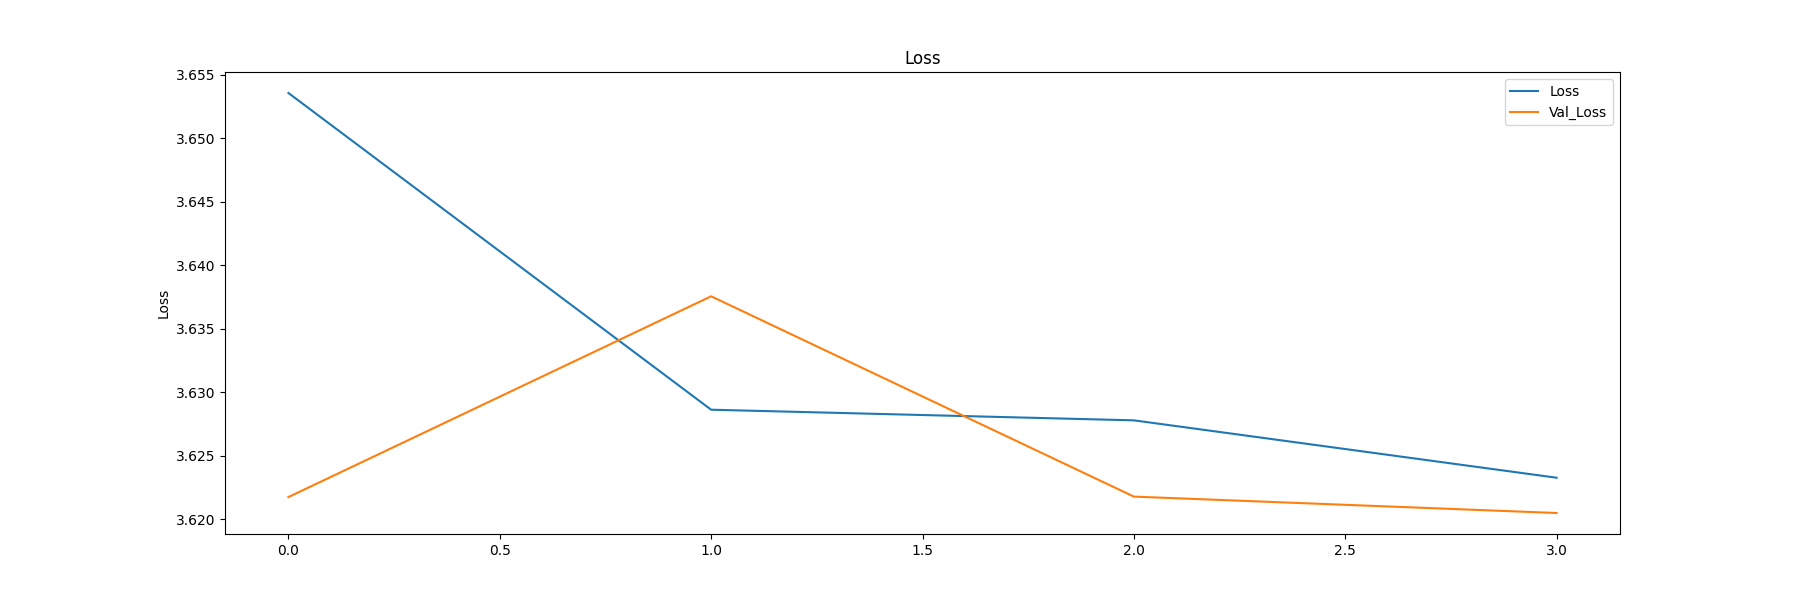
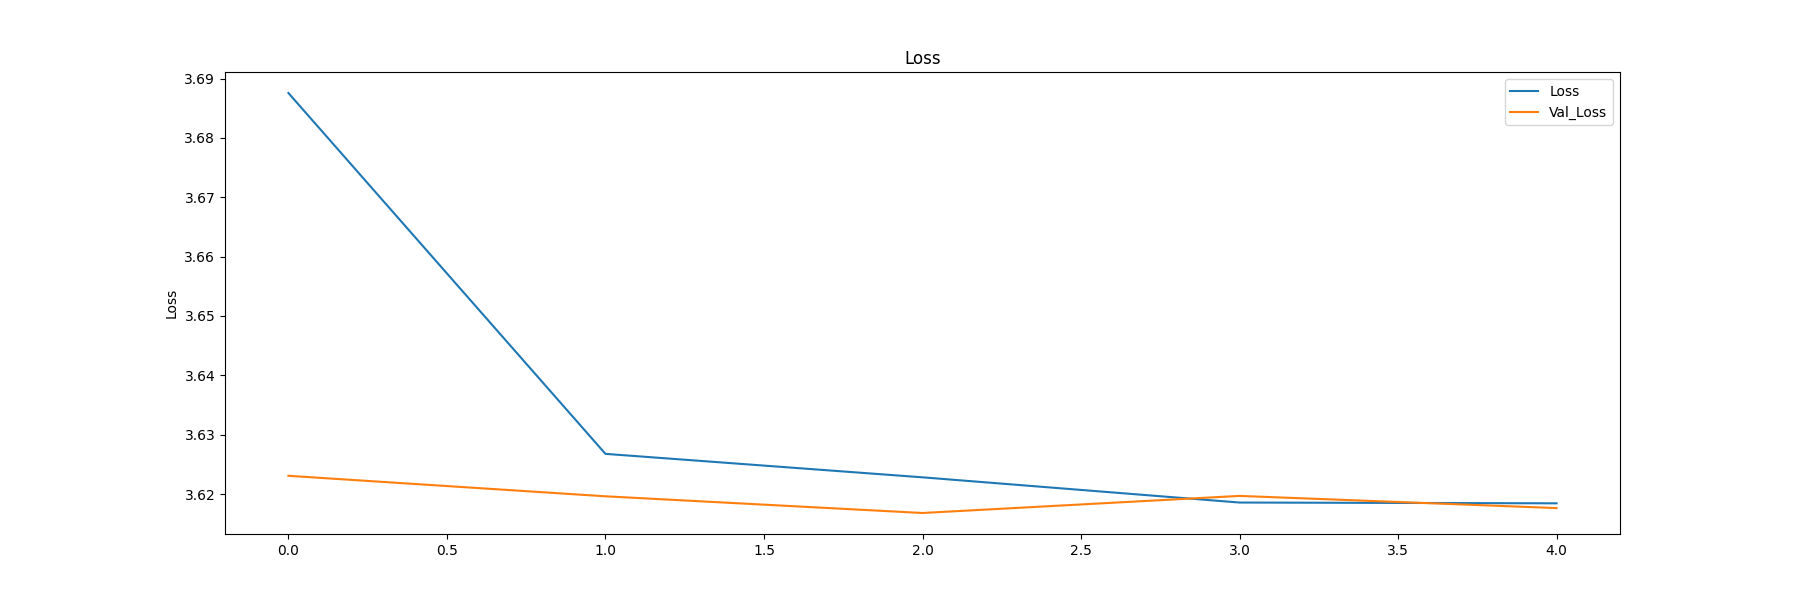
[AUTO] training model v0.0-testing, epoch 5.

diff --git a/model/batch_stabilization.py b/model/batch_stabilization.py
@@ -1,7 +1,7 @@
 import numpy as np
 
 
-def stabilize_batch_size(converging, batch_size, min_batch_size = 1, max_batch_size = 32):
+def stabilize_batch_size(converging, batch_size, min_batch_size = 32, max_batch_size = 512):
 
     can_increase = batch_size < max_batch_size
     can_decrease = batch_size > min_batch_size
@@ -15,13 +15,19 @@ def stabilize_batch_size(converging, batch_size, min_batch_size = 1, max_batch_s
     print(f'TRAINING WITH BATCH SIZE = {batch_size}=========================================================================')
     return batch_size
 
-def is_converging(history, n_last_epochs=5, metric='Val_Loss'):
+def is_converging(history, n_last_epochs, epsilon=0.001):
     if len(history) < n_last_epochs:
-        return False
+        return True
     
-    # Extract only the Val_Loss column from the history.
-    val_loss_history = [row[history[0].index(metric)] for row in history[-n_last_epochs:]]
+    last_n_epochs = history[-n_last_epochs:]
     
-    # Check if it is converging (you can define your own conditions here).
-    return all(x >= y for x, y in zip(val_loss_history, val_loss_history[1:]))
+    # Extract just the accuracy from the last `n_last_epochs` entries.
+    # Assuming accuracy is the third item in each row
+    last_n_accuracies = [float(row[2]) for row in last_n_epochs]
+    
+    max_acc = max(last_n_accuracies)
+    min_acc = min(last_n_accuracies)
+    
+    return max_acc - min_acc < epsilon
+
 

diff --git a/commands/train_and_save.py b/commands/train_and_save.py
@@ -30,7 +30,7 @@ def train_and_save(model, epochs, save_interval = None, custom_metrics = None, c
     hist_path = 'history.csv'
 
     os.makedirs('models', exist_ok=True)
-    
+
     if os.path.exists(hist_path):
         history = read_history(hist_path)
         initial_epoch = int(history[-1][0])
@@ -46,7 +46,7 @@ def train_and_save(model, epochs, save_interval = None, custom_metrics = None, c
     else:
         history = create_history(hist_path, custom_metrics)
         initial_epoch = 0
-        batch_size = 256
+        batch_size = 512
 
         model = compile_model(model, custom_metrics, custom_optimizer)
 

diff --git a/commands/reset.py b/commands/reset.py
@@ -1,2 +1,17 @@
+import os
+import shutil
+
 def run(hard: bool = False):
-    print(hard)
+    # Check if 'history.csv' exists and delete it
+    if os.path.exists('history.csv'):
+        os.remove('history.csv')
+        print("Deleted file: history.csv")
+    else:
+        print("File history.csv does not exist")
+
+    # Check if 'models' folder exists and delete it
+    if os.path.exists('models'):
+        shutil.rmtree('models')
+        print("Deleted folder: models")
+    else:
+        print("Folder models does not exist")
